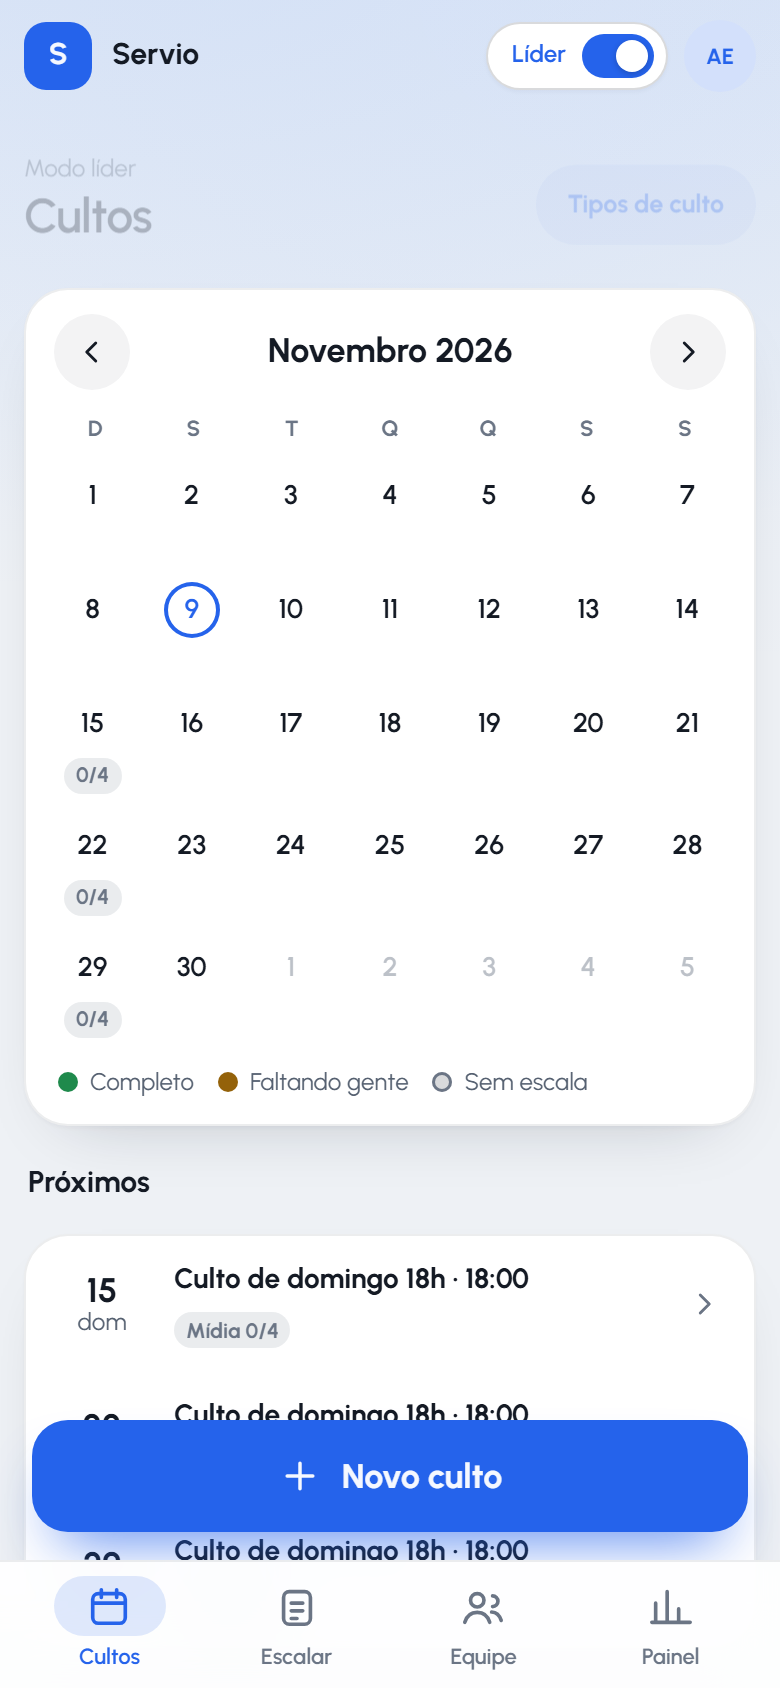
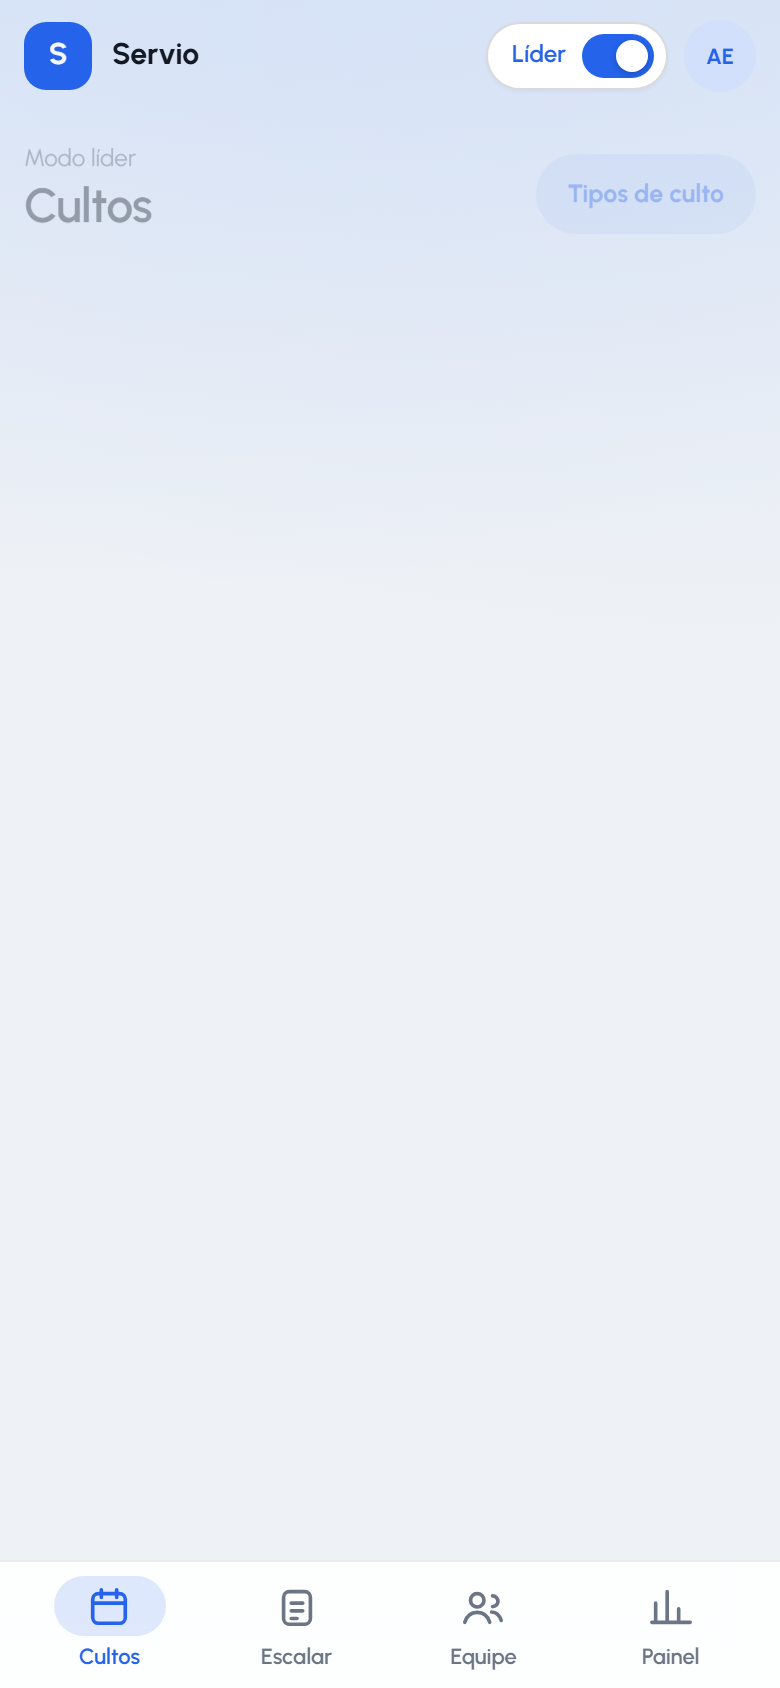
fila 057: Fazer a tela nova entrar em cascata e a antiga sair num esmaecer curto

diff --git a/src/components/Movimento.tsx b/src/components/Movimento.tsx
@@ -3,12 +3,12 @@
 import Script from "next/script";
 import { usePathname, useRouter } from "next/navigation";
 import { useEffect, useRef } from "react";
-import { chegou, navegar, podeAnimar, tipoDaNavegacao, transicao } from "./app/navegar";
+import { cascata, chegou, itensDaTela, navegar, podeAnimar, telaDo, tipoDaNavegacao, transicao } from "./app/navegar";
 
 declare global {
   interface Window {
     motion?: {
-      enter(root?: ParentNode): void;
+      enter(root?: ParentNode | Element[], opcoes?: { sel?: string; stagger?: number; y?: number; ms?: number; max?: number }): void;
       countAll(root?: ParentNode): void;
       stuck(top: Element): void;
       theme(tema: string, origem?: Element | null): void;
@@ -17,17 +17,42 @@ declare global {
   }
 }
 
-/** Depois de uma View Transition o deslize já é a entrada: sem cascata, e os números contam ao fim dela. */
+/**
+ * Entrada da tela nova. Detalhe ↔ lista (View Transition `frente`/`tras`): o deslize já é a entrada, sem cascata,
+ * e os números contam ao fim dela. Troca de aba ou de modo: a tela antiga esmaece (kit.css) e os blocos da nova
+ * entram em cascata já durante a transição, que mostra a tela nova ao vivo.
+ */
 function animar(fimDaTransicao: Promise<void> | null = null) {
   const m = window.motion;
   const main = document.querySelector("main");
   if (!m || !main) return;
-  if (fimDaTransicao) {
+  const nav = document.documentElement.dataset.nav;
+  if (fimDaTransicao && (nav === "frente" || nav === "tras")) {
     void fimDaTransicao.then(() => m.countAll(main));
     return;
   }
-  m.enter(main);
+  cascata(itensDaTela(telaDo(main)));
   m.countAll(main);
+}
+
+const LIMITE_FILTRO_MS = 3000;
+
+/** Filtro por link (mesmo caminho, outra query): quando a URL nova chega, os blocos abaixo do filtro entram em cascata. */
+function cascataAoFiltrar(destino: string, link: Element) {
+  const main = document.querySelector("main");
+  const tela = main && telaDo(main);
+  if (!tela) return;
+  let bloco: Element | null = link;
+  while (bloco && bloco.parentElement !== tela) bloco = bloco.parentElement;
+  const desde = bloco ? [...tela.children].indexOf(bloco) + 1 : 0;
+  const t0 = performance.now();
+  const olhar = () => {
+    if (location.search === destino) {
+      const agora = telaDo(document.querySelector("main") ?? tela);
+      cascata(itensDaTela(agora, agora === tela ? desde : 0));
+    } else if (performance.now() - t0 < LIMITE_FILTRO_MS) requestAnimationFrame(olhar);
+  };
+  requestAnimationFrame(olhar);
 }
 
 const LIMITE_CARREGANDO_MS = 8000;
@@ -60,7 +85,11 @@ export function Movimento() {
       const a = (e.target as Element | null)?.closest?.("a[href]") as HTMLAnchorElement | null;
       if (!a || (a.target && a.target !== "_self") || a.hasAttribute("download")) return;
       const url = new URL(a.href, location.href);
-      if (url.origin !== location.origin || url.pathname === atual.current || url.pathname.startsWith("/api/")) return;
+      if (url.origin !== location.origin || url.pathname.startsWith("/api/")) return;
+      if (url.pathname === atual.current) {
+        if (url.search !== location.search) cascataAoFiltrar(url.search, a);
+        return;
+      }
       // As marcas entram antes da View Transition para já estarem no quadro "antigo".
       limparCarregando();
       document.documentElement.setAttribute("data-carregando", "");

diff --git a/e2e/z-casca-sem-mais.spec.ts b/e2e/z-casca-sem-mais.spec.ts
@@ -320,3 +320,63 @@ test("desktop: a pílula desce pela barra lateral e fica parada na aba ativa", a
   if (process.env.PRINT_PILULA) await p.screenshot({ path: `${process.env.PRINT_PILULA}-desktop-fim.png`, clip: { x: 0, y: 0, width: 200, height: 460 } });
   await contexto.close();
 });
+
+// Guarda o atraso de cada animação de entrada da cascata (motion.enter: translateY 8 px) no instante em que nasce.
+const espiarCascata = `(() => {
+  window.__cascata = [];
+  const animar = Element.prototype.animate;
+  Element.prototype.animate = function (quadros, opcoes) {
+    if (Array.isArray(quadros) && String(quadros[0]?.transform).includes("translateY(8px)") && this.closest("main"))
+      window.__cascata.push(Number(opcoes?.delay ?? 0));
+    return animar.call(this, quadros, opcoes);
+  };
+})()`;
+const cascataVista = (p: Page) => p.evaluate(() => (window as unknown as { __cascata: number[] }).__cascata.splice(0));
+
+test("troca de aba: os blocos da tela nova entram em cascata; movimento desligado não anima", async ({ browser }) => {
+  const p = await entrarComEspiao(browser, "no-preference");
+  await p.evaluate(espiarCascata);
+  await aba(p, "Agenda").click();
+  await expect(p).toHaveURL(/\/agenda$/);
+  await expect.poll(async () => (await p.evaluate(() => (window as unknown as { __cascata: number[] }).__cascata.length))).toBeGreaterThan(2);
+  const atrasos = await cascataVista(p);
+  expect(atrasos[0]).toBe(0);
+  for (let i = 1; i < atrasos.length; i++) expect(atrasos[i]).toBeGreaterThanOrEqual(atrasos[i - 1]);
+  expect(atrasos[1]).toBeGreaterThan(0);
+  // Do 8º item em diante entram juntos: o atraso para em 7 × 35 ms.
+  expect(Math.max(...atrasos)).toBeLessThanOrEqual(7 * 35);
+  // A troca de aba esmaece a tela antiga, sem deslize.
+  expect(await transicoes(p)).toEqual(["aba-dir"]);
+  await parado(p);
+
+  // Filtro dentro da tela: trocar o mês da Agenda faz a lista nova entrar em cascata.
+  await p.getByRole("button", { name: "Próximo mês" }).click();
+  await expect.poll(async () => (await cascataVista(p)).length).toBeGreaterThan(0);
+
+  await p.evaluate(() => (document.documentElement.dataset.motion = "off"));
+  await cascataVista(p);
+  await aba(p, "Folgas").click();
+  await expect(p).toHaveURL(/\/folgas$/);
+  await p.waitForTimeout(300);
+  expect(await cascataVista(p)).toEqual([]);
+  const animadas = await p.evaluate(() =>
+    [...document.querySelectorAll("main *")].filter((el) => el.getAnimations().some((a) => !(a instanceof CSSAnimation) && !(a instanceof CSSTransition))).length,
+  );
+  expect(animadas).toBe(0);
+  await p.context().close();
+});
+
+// Gravação para conferência humana: VIDEO_057=<pasta> pnpm e2e (pula quando a variável não existe).
+test("vídeo 057: três trocas de aba e uma troca de filtro", async ({ browser }) => {
+  test.skip(!process.env.VIDEO_057, "defina VIDEO_057 para gravar");
+  const p = await entrarComEspiao(browser, "no-preference", process.env.VIDEO_057);
+  await p.waitForTimeout(900);
+  for (const [nome, caminho] of [["Folgas", /\/folgas$/], ["Perfil", /\/perfil$/], ["Agenda", /\/agenda$/]] as const) {
+    await aba(p, nome).click();
+    await expect(p).toHaveURL(caminho);
+    await p.waitForTimeout(1100);
+  }
+  await p.getByRole("button", { name: "Próximo mês" }).click();
+  await p.waitForTimeout(1100);
+  await p.context().close();
+});

diff --git a/src/ui/kit/kit.css b/src/ui/kit/kit.css
@@ -283,16 +283,18 @@ html[data-motion='off'] *, html[data-motion='off'] *::before, html[data-motion='
 .top { view-transition-name: topo; }
 ::view-transition-old(rail) { display: none; }
 ::view-transition-new(rail) { animation: none; }
-@keyframes nav-entra { from { opacity: 0; transform: translateX(var(--nav-de, 0)) scale(var(--nav-escala, 1)); } }
-@keyframes nav-sai { to { opacity: 0; transform: translateX(var(--nav-para, 0)) scale(var(--nav-escala, 1)); } }
+@keyframes nav-entra { from { opacity: 0; transform: translateX(var(--nav-de, 0)); } }
+@keyframes nav-sai { to { opacity: 0; transform: translateX(var(--nav-para, 0)); } }
+@keyframes nav-esmaece { to { opacity: 0; } }
 @media (prefers-reduced-motion: no-preference) {
+  /* Detalhe ↔ lista (frente/trás): a página desliza, é a entrada. */
   html[data-nav]::view-transition-old(root) { animation: nav-sai 200ms var(--ease-in, cubic-bezier(.4,0,1,1)) both; }
   html[data-nav]::view-transition-new(root) { animation: nav-entra 300ms var(--ease, cubic-bezier(.2,.8,.2,1)) both; }
-  html[data-nav="aba-dir"] { --nav-de: 32px; --nav-para: -32px; }
-  html[data-nav="aba-esq"] { --nav-de: -32px; --nav-para: 32px; }
   html[data-nav="frente"] { --nav-de: 40px; --nav-para: -24px; }
   html[data-nav="tras"] { --nav-de: -24px; --nav-para: 40px; }
-  html[data-nav="troca"] { --nav-escala: .98; }
+  /* Troca de aba ou de modo: a tela antiga esmaece por cima da nova, que fica parada; os blocos dela entram em cascata (Movimento.tsx). */
+  html[data-nav^="aba"]::view-transition-old(root), html[data-nav="troca"]::view-transition-old(root) { z-index: 1; animation: nav-esmaece 140ms var(--ease-in, cubic-bezier(.4,0,1,1)) both; }
+  html[data-nav^="aba"]::view-transition-new(root), html[data-nav="troca"]::view-transition-new(root) { animation: none; }
 }
 
 /* ---------- Troca de tela a caminho (Movimento.tsx grava html[data-carregando] e a[data-indo]) ---------- */

diff --git a/src/components/app/navegar.ts b/src/components/app/navegar.ts
@@ -1,4 +1,39 @@
+import { useEffect, useRef } from "react";
 import { ABAS } from "../abas";
+
+/** Entrada em cascata: opacidade e subida de 8 px, 35 ms entre itens; do 8º em diante entram juntos. */
+export function cascata(itens: Element[]) {
+  if (itens.length > 0) window.motion?.enter(itens, { stagger: 35, y: 8, ms: 360, max: 8 });
+}
+
+/** Blocos de uma tela na ordem do DOM, a partir de `desde`; uma lista (`.list`) entra linha a linha. */
+export function itensDaTela(tela: Element, desde = 0): Element[] {
+  const itens: Element[] = [];
+  for (const bloco of [...tela.children].slice(desde)) {
+    if (bloco.classList.contains("list")) itens.push(...bloco.children);
+    else if (bloco.querySelector(":scope > .list")) {
+      for (const filho of bloco.children) filho.classList.contains("list") ? itens.push(...filho.children) : itens.push(filho);
+    } else itens.push(bloco);
+  }
+  return itens;
+}
+
+/** A `.tela` dentro do `main` (ou o primeiro filho dele, nas telas sem `.tela`). */
+export const telaDo = (main: Element) => main.querySelector(":scope > .tela") ?? main.firstElementChild ?? main;
+
+/** Filtro dentro da tela: quando `chave` muda, as linhas do contêiner do `ref` entram em cascata (a montagem não conta). */
+export function useCascata<T extends Element>(chave: unknown) {
+  const ref = useRef<T>(null);
+  const montou = useRef(false);
+  useEffect(() => {
+    if (!montou.current) {
+      montou.current = true;
+      return;
+    }
+    if (ref.current) cascata([...ref.current.children]);
+  }, [chave]);
+  return ref;
+}
 
 /** Direção da troca de tela; o CSS lê em `html[data-nav]` (kit.css). */
 export type TipoNav = "aba-dir" | "aba-esq" | "frente" | "tras" | "troca";

diff --git a/src/app/(app)/agenda/CalendarioAgenda.tsx b/src/app/(app)/agenda/CalendarioAgenda.tsx
@@ -6,6 +6,7 @@ import { Calendario, type DiaDoCalendario } from "@/components/app/Calendario";
 import { AcaoPrincipal } from "@/components/app/AcaoPrincipal";
 import { hojeIso, nomeDoDia, semanaCurta } from "@/components/app/calendario-grade";
 import { FolhaInferior } from "@/components/app/FolhaInferior";
+import { useCascata } from "@/components/app/navegar";
 import { checkinAcao, confirmarEscala, pedirTrocaAcao, recusarEscala } from "./acoes";
 
 export interface EscalaDoDia {
@@ -87,6 +88,7 @@ export function CalendarioAgenda({
     }
     return itens.sort((a, b) => a.dia.localeCompare(b.dia));
   }, [escalas, folgas, mes]);
+  const listaRef = useCascata<HTMLElement>(mes);
   const doDia = dia ? escalas.filter((e) => e.dia === dia) : [];
   const folga = dia ? folgas.includes(dia) : false;
 
@@ -115,7 +117,7 @@ export function CalendarioAgenda({
           : "Nenhuma escala com você ainda. Quando o líder publicar, o dia aparece marcado aqui."}
       </p>
       <h2 className="sec">Em {MES_POR_EXTENSO[Number(mes.slice(5)) - 1]}</h2>
-      <section className="list" aria-label={`Escalas e folgas em ${MES_POR_EXTENSO[Number(mes.slice(5)) - 1]}`}>
+      <section ref={listaRef} className="list" aria-label={`Escalas e folgas em ${MES_POR_EXTENSO[Number(mes.slice(5)) - 1]}`}>
         {lista.length === 0 ? (
           <p className="vazio" style={{ padding: 16 }}>
             Nada neste mês.

diff --git a/public/ui/motion.js b/public/ui/motion.js
@@ -9,11 +9,13 @@
   const d = (ms) => (reduz() ? 0 : ms);
   const anima = (el, frames, ms, easing = EASE, extra = {}) => el.animate(frames, { duration: d(ms), easing, fill: 'both', ...extra });
 
-  // ---------- Entrada em cascata: [data-enter] na ordem do DOM ----------
-  function enter(root = document, { sel = '[data-enter]', stagger = 40, y = 14, ms = 520 } = {}) {
-    const els = [...root.querySelectorAll(sel)];
+  // ---------- Entrada em cascata: [data-enter] na ordem do DOM, ou a lista de elementos dada ----------
+  // max = quantos itens ganham atraso crescente; do max-ésimo em diante entram juntos. Movimento reduzido: nada anima.
+  function enter(root = document, { sel = '[data-enter]', stagger = 40, y = 14, ms = 520, max = Infinity } = {}) {
+    if (reduz()) return Promise.resolve([]);
+    const els = Array.isArray(root) ? root : [...root.querySelectorAll(sel)];
     return Promise.all(
-      els.map((el, i) => anima(el, [{ opacity: 0, transform: `translateY(${y}px)` }, { opacity: 1, transform: 'none' }], ms, EASE, { delay: d(i * stagger), fill: 'backwards' }).finished),
+      els.map((el, i) => anima(el, [{ opacity: 0, transform: `translateY(${y}px)` }, { opacity: 1, transform: 'none' }], ms, EASE, { delay: Math.min(i, max - 1) * stagger, fill: 'backwards' }).finished),
     );
   }
 

diff --git a/src/app/(app)/lider/cultos/CalendarioCultos.tsx b/src/app/(app)/lider/cultos/CalendarioCultos.tsx
@@ -6,6 +6,7 @@ import { useMemo, useState } from "react";
 import { Calendario, type DiaDoCalendario } from "@/components/app/Calendario";
 import { hojeIso, nomeDoDia } from "@/components/app/calendario-grade";
 import { IconeApp } from "@/components/app/icones";
+import { useCascata } from "@/components/app/navegar";
 import estilo from "./cultos.module.css";
 
 export interface CultoDoMes {
@@ -83,6 +84,7 @@ export function CalendarioCultos({
     };
   }
   const futuros = cultos.filter((c) => c.data >= hoje);
+  const listaRef = useCascata<HTMLElement>(`${mes}|${dia}`);
   const lista = dia ? (porDia.get(dia) ?? []) : (futuros.length > 0 ? futuros : cultos).slice(0, PROXIMOS);
 
   return (
@@ -125,7 +127,7 @@ export function CalendarioCultos({
           <p>Nenhum culto neste mês.</p>
         </section>
       ) : (
-        <section id="cultos-do-dia" className="list" aria-label={dia ? nomeDoDia(dia) : "Próximos cultos"} style={{ scrollMarginBottom: 150 }}>
+        <section ref={listaRef} id="cultos-do-dia" className="list" aria-label={dia ? nomeDoDia(dia) : "Próximos cultos"} style={{ scrollMarginBottom: 150 }}>
           {lista.length === 0 ? (
             <p className="vazio" style={{ padding: 16 }}>
               Sem culto neste dia. Toque num dia com marcação.
